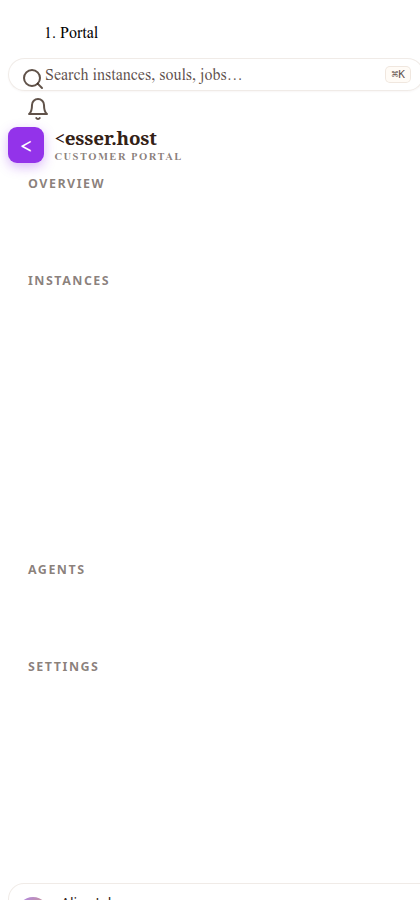
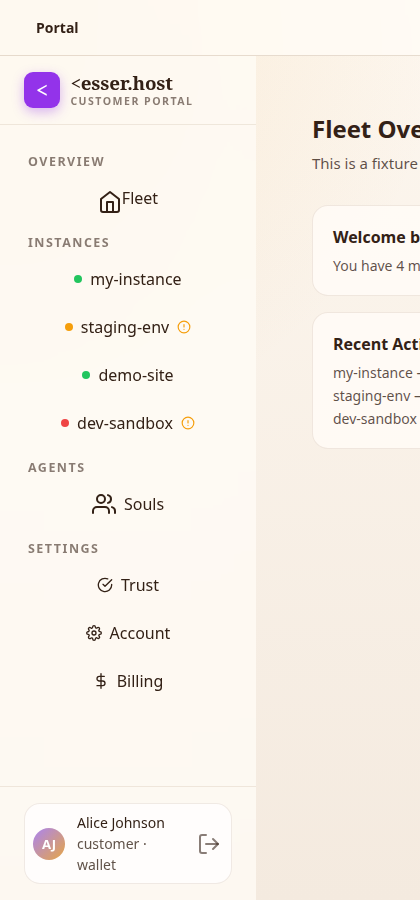
fix(web): import full Greater Shell CSS into M2 fixture for evidence fidelity
The M2 shell fixture (`web/fixtures/m2-shell.ts`) was missing the
Greater Shell CSS bundle that real app entrypoints load. This caused
screenshot evidence to render as unstyled block layout instead of the
actual Greater shell composition (sidebar column, full-width topbar,
main content area). Added the four missing CSS imports (shell.css,
host-platform.css, operator-chrome.css, app.css) and regenerated all
three evidence PNGs from the corrected fixture at 1440×900 viewport.

Evidence PNGs now show a proper Greater Shell: topbar full-width,
sidebar as left column with grouped nav links under eyebrow labels,
user chip in footer, and fixture content cards in the main area.

Validation:
- git diff --check: PASS
- PNG dims (PIL): 1440×900 / 420×900 / 1440×96 ✓
- web lint: PASS (0 errors)
- web typecheck: PASS (0 errors, 0 warnings)
- web test: PASS (148 tests, 20 files)
- web build: PASS (CSP integrity OK)
- gov rubric: PASS (40/0/0)

diff --git a/web/fixtures/m2-shell.ts b/web/fixtures/m2-shell.ts
@@ -6,6 +6,10 @@
  * ONLY loaded via `web/fixtures/m2-shell.html` for headless PNG capture
  * — it is never imported by any customer portal route.
  *
+ * Import order mirrors the real app entrypoints (App.svelte, main.ts,
+ * face-client.ts) so screenshot evidence is grounded in the actual
+ * Greater shell layout rather than falling back to unstyled block layout.
+ *
  * @license AGPL-3.0-only
  */
 
@@ -14,8 +18,20 @@ import 'src/lib/styles/greater/tokens.css';
 import 'src/lib/tokens';
 import 'src/lib/styles/greater/primitives.css';
 
+/* Greater Shell CSS (Sidebar, Topbar, Breadcrumb, PageFrame, etc.) */
+import 'src/lib/styles/greater/shell.css';
+
+/* Greater Host-Platform CSS (FleetCard, CostGauge, etc.) */
+import 'src/lib/styles/greater/host-platform.css';
+
 /* M1 primitives runtime CSS (Eyebrow used in sidebar nav sections). */
 import 'src/lib/styles/m1-primitives.css';
+
+/* Operator chrome (dark warm-charcoal skin for operator-only surfaces). */
+import 'src/lib/tokens/operator-chrome.css';
+
+/* App-level skin: Agent Genesis overrides for .gr-shell, body background. */
+import 'src/app.css';
 
 import { mount } from 'svelte';
 import M2ShellFixture from 'src/lib/components/__fixtures__/M2ShellFixture.svelte';

diff --git a/gov-infra/evidence/design-fidelity/m2-shell/full-shell.md b/gov-infra/evidence/design-fidelity/m2-shell/full-shell.md
@@ -11,18 +11,24 @@ Captured via Google Chrome headless against the M2 fixture page
 (`web/fixtures/m2-shell.html`), which mounts PortalShell in isolation with
 pre-seeded session data and mock API responses at 1440×900 viewport.
 
+The fixture entrypoint (`web/fixtures/m2-shell.ts`) imports the full
+Greater Shell CSS bundle (`src/lib/styles/greater/shell.css` plus
+host-platform.css, operator-chrome.css, and app.css) so the captured
+evidence reflects the actual Greater shell layout — topbar full-width,
+sidebar as a left column with grouped nav links, content in the main area.
+
 ```bash
 # Serve fixture in one terminal
-cd web && npx vite --config fixtures/vite.fixture.m2.config.ts --port 4173
+cd web && npx vite --config fixtures/vite.fixture.m2.config.ts --port 5200
 
 # Capture in another
 /usr/bin/google-chrome --headless --disable-gpu \
   --window-size=1440,900 \
   --screenshot=gov-infra/evidence/design-fidelity/m2-shell/full-shell.png \
-  http://localhost:4173/
+  http://localhost:5200/fixtures/m2-shell.html
 ```
 
-Result: `full-shell.png`, 1440×900 RGB PNG (39,747 bytes), non-interlaced.
+Result: `full-shell.png`, 1440×900 RGB PNG (208,879 bytes), non-interlaced.
 
 ## Full-Shell Layout (1440 × 900 viewport)
 

diff --git a/gov-infra/evidence/design-fidelity/m2-shell/sidebar.md b/gov-infra/evidence/design-fidelity/m2-shell/sidebar.md
@@ -21,7 +21,7 @@ sidebar.save('gov-infra/evidence/design-fidelity/m2-shell/sidebar.png')
 ```
 
 The source `full-shell.png` was captured via Google Chrome headless against
-`web/fixtures/m2-shell.html` at 1440×900 viewport (see `full-shell.md`).
+`web/fixtures/m2-shell.html` at 1440×900 viewport on port 5200 (see `full-shell.md`).
 
 Result: `sidebar.png`, 420×900 RGB PNG.
 

diff --git a/gov-infra/evidence/design-fidelity/m2-shell/topbar.md b/gov-infra/evidence/design-fidelity/m2-shell/topbar.md
@@ -21,7 +21,7 @@ topbar.save('gov-infra/evidence/design-fidelity/m2-shell/topbar.png')
 ```
 
 The source `full-shell.png` was captured via Google Chrome headless against
-`web/fixtures/m2-shell.html` at 1440×900 viewport (see `full-shell.md`).
+`web/fixtures/m2-shell.html` at 1440×900 viewport on port 5200 (see `full-shell.md`).
 
 Result: `topbar.png`, 1440×96 RGB PNG.
 
